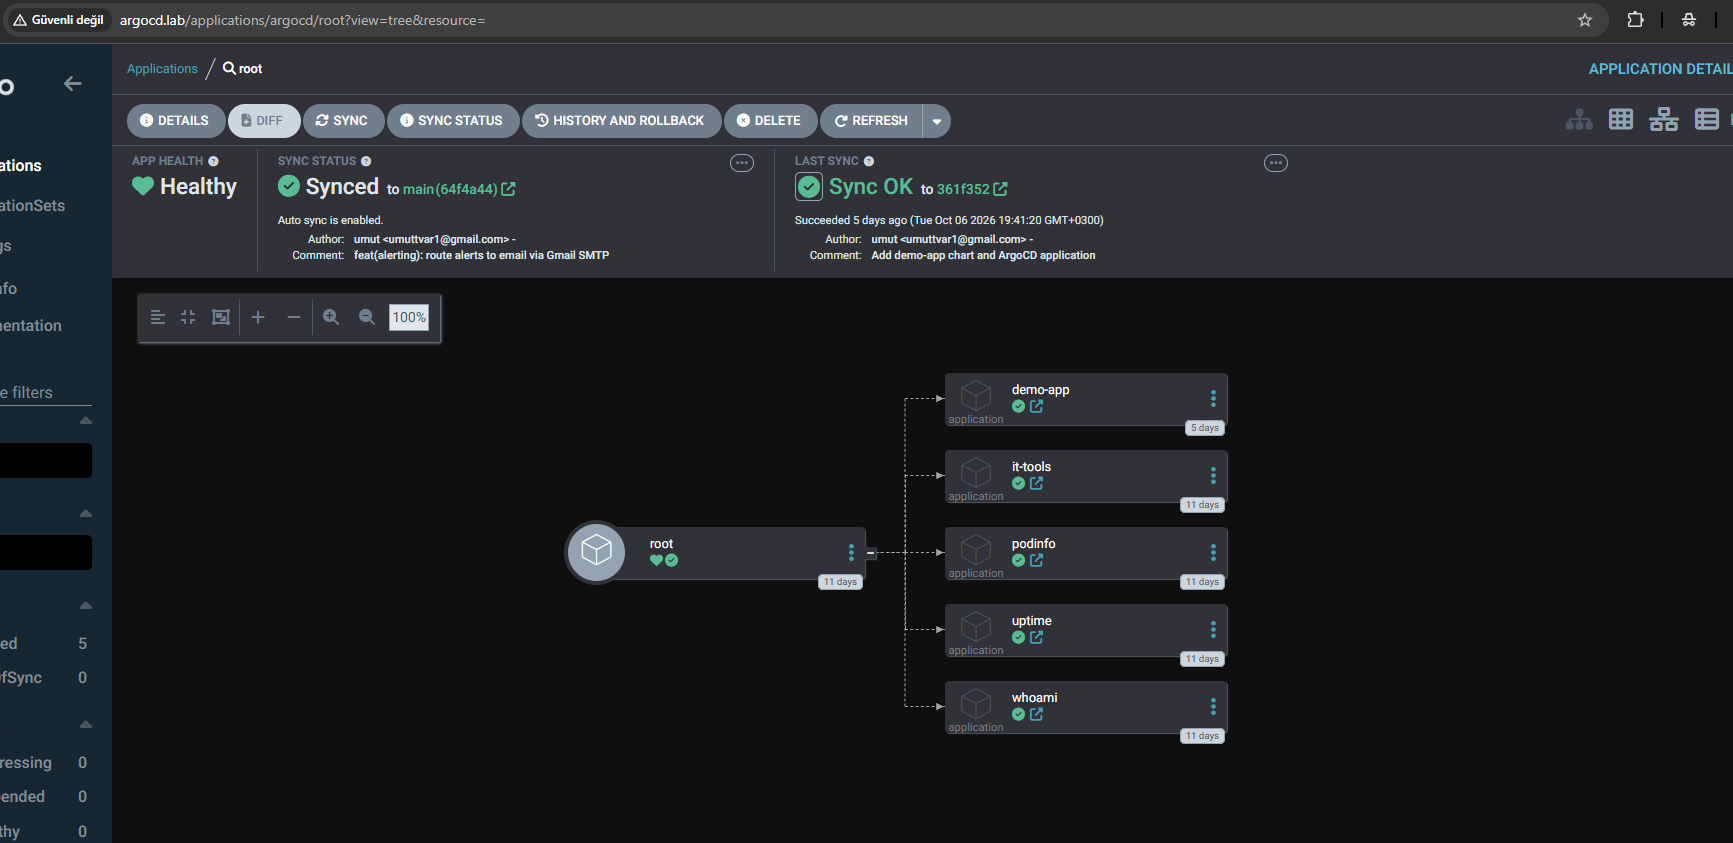
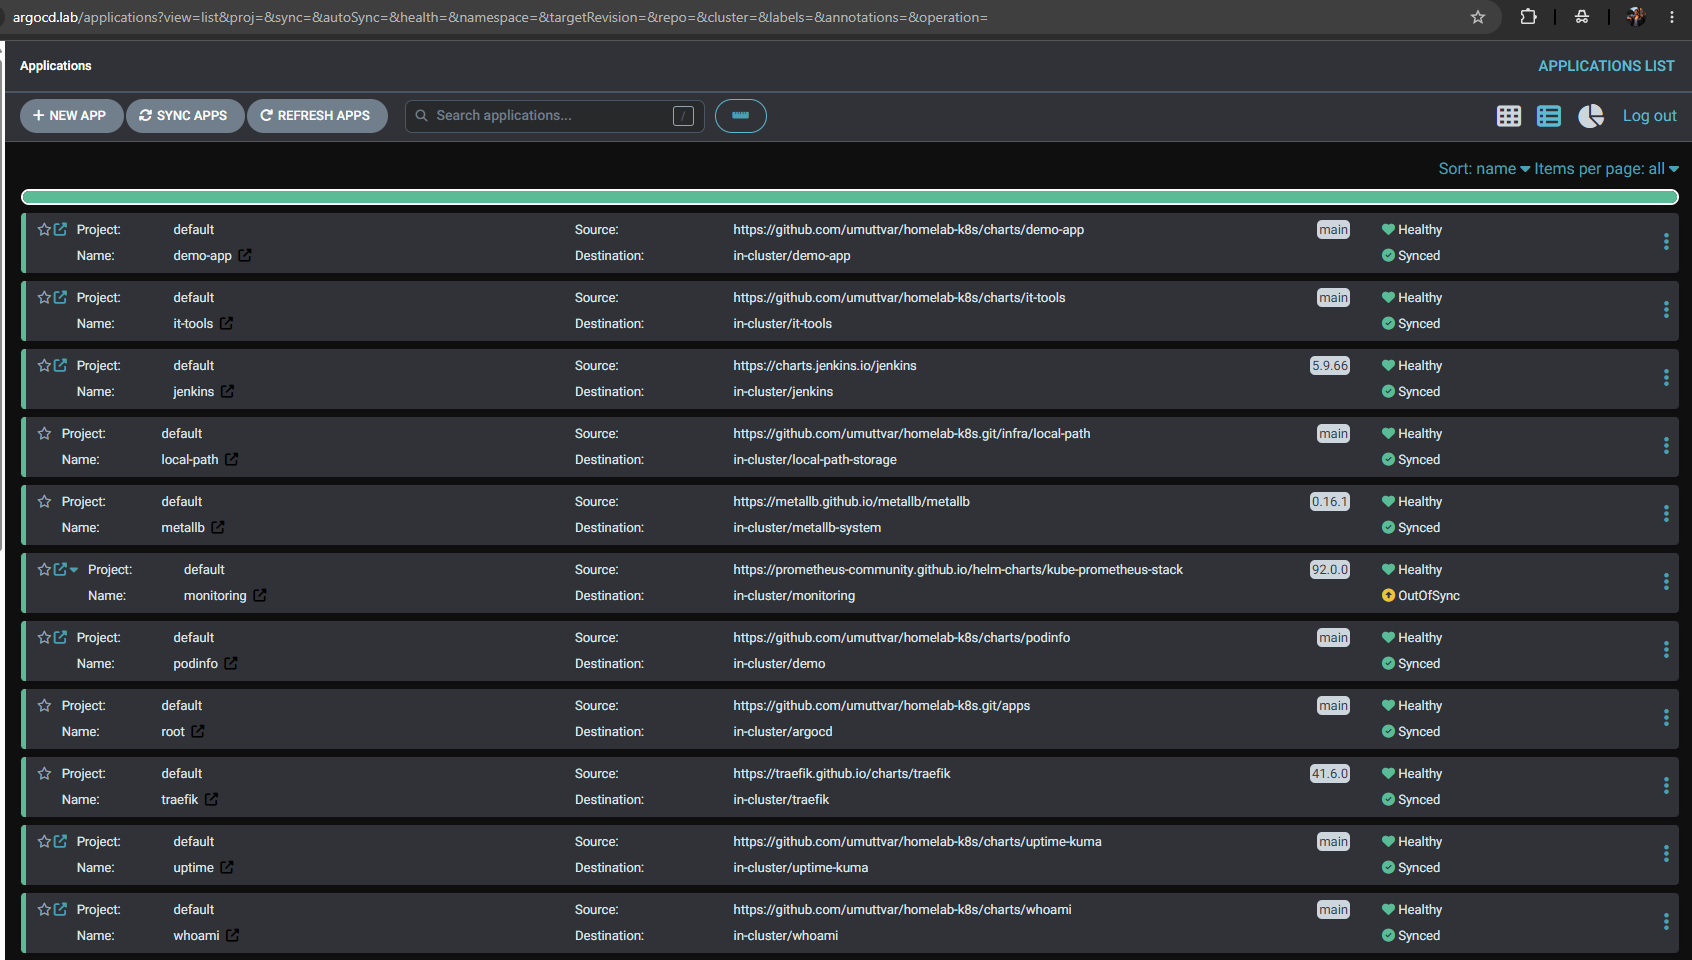
Adding images and readme

diff --git a/README.tr.md b/README.tr.md
@@ -44,10 +44,10 @@ flowchart LR
 
 - Tek şablondan klonlanmış Proxmox VM'lerinde **3 node'lu vanilla Kubernetes** (kubeadm, k3s değil)
 - **Elle adım olmayan CI/CD:** testler → SonarCloud kalite kapısı → Kaniko build → **push'tan önce Trivy taraması** → GHCR → Argo CD
-- **Pull tabanlı GitOps:** Jenkins sadece Git'e yazıyor, cluster'a erişimi yok
+- **Her şey için pull tabanlı GitOps:** uygulamalar *ve* platform (Traefik, MetalLB, Jenkins, izleme, depolama) Argo CD Application'ı. Jenkins sadece Git'e yazıyor, cluster'a erişimi yok
 - **Her şey kod olarak:** uygulamalar, Grafana dashboard'ları ve alarm kuralları bu repoda
 - **Metrikle bulunan sorun:** yanıltıcı bir p95'i (500 ms'lik endpoint için 975 ms) buldum, kodda düzelttim, pipeline'dan geçirdim, ~740 ms olarak doğruladım
-- Kök nedeni ve çözümüyle belgelenmiş **28 gerçek sorun**
+- Kök nedeni ve çözümüyle belgelenmiş **32 gerçek sorun**
 
 ---
 
@@ -97,7 +97,7 @@ flowchart LR
 - [x] Jenkins ile CI: test → SonarCloud → Kaniko → Trivy → GHCR → GitOps commit'i
 - [x] Prometheus + Grafana ile izleme, kod olarak dashboard
 - [x] Alarmlar: PrometheusRule → Alertmanager → e-posta
-- [ ] `infra/`'yı da Argo CD ile yönetmek
+- [x] Platform bileşenleri (`infra/`) de Argo CD ile yönetiliyor, kesintisiz taşındı
 - [ ] cert-manager ile TLS
 - [ ] Sealed Secrets
 - [ ] Her şeyi Terraform (Proxmox provider) + Ansible ile yeniden kurmak
@@ -184,12 +184,17 @@ Tek IP, tek port, birçok uygulama: Traefik her isteği HTTP `Host` başlığın
 ```
 homelab-k8s/
 ├── root-app.yaml               # Argo CD "App of Apps": elle uygulanan tek dosya
-├── apps/                       # Her chart için bir Argo CD Application
-│   ├── demo-app.yaml
-│   ├── podinfo.yaml
-│   ├── whoami.yaml
-│   ├── it-tools.yaml
-│   └── uptime-kuma.yaml
+├── apps/                       # Her bileşen için bir Argo CD Application
+│   ├── demo-app.yaml           # ┐
+│   ├── podinfo.yaml            # │ kendi chart'larım (charts/)
+│   ├── whoami.yaml             # │
+│   ├── it-tools.yaml           # │
+│   ├── uptime-kuma.yaml        # ┘
+│   ├── traefik.yaml            # ┐
+│   ├── metallb.yaml            # │ platform: dış chart (sürümü sabit)
+│   ├── jenkins.yaml            # │ + infra/'daki values
+│   ├── monitoring.yaml         # │
+│   └── local-path.yaml         # ┘
 ├── charts/                     # Kendi yazdığım Helm chart'ları
 │   ├── demo-app/               # CI pipeline'ının build ettiği uygulama
 │   │   ├── values.yaml         # image.tag her build'de Jenkins tarafından güncelleniyor
@@ -206,7 +211,7 @@ homelab-k8s/
 │   ├── whoami/                 # Durumsuz (stateless) uygulama, 3 replika
 │   ├── it-tools/               # Durumsuz SPA, 3 replika
 │   └── uptime-kuma/            # Durumlu (stateful) uygulama: PVC, tek replika, Recreate
-├── infra/                      # Hazır platform chart'larının values dosyaları (Helm ile kuruldu)
+├── infra/                      # Platform bileşenlerinin values/manifestleri (apps/ kullanıyor)
 │   ├── metallb/
 │   ├── traefik/
 │   ├── local-path/
@@ -216,13 +221,13 @@ homelab-k8s/
 └── docs/images/                # README'deki ekran görüntüleri
 ```
 
-> `apps/` ve `charts/` Argo CD tarafından uygulanıyor: push = deploy.
-> `infra/` platformun nasıl kurulduğunun kaydı. `helm upgrade` ile elle uygulanıyor (bkz. [Yol haritası](#yol-haritası)).
+> `apps/`, `charts/` ve `infra/` altındaki her şey Argo CD tarafından uygulanıyor: push = deploy.
+> Tek istisna Argo CD'nin kendisi (`infra/argocd/`). Önyükleme adımı olarak bir kez Helm ile kuruldu.
 
 </details>
 
 <details>
-<summary><b>Nasıl kuruldu: BIOS'tan alarmlara 10 aşama</b></summary>
+<summary><b>Nasıl kuruldu: BIOS'tan tamamen GitOps ile yönetilen platforma 11 aşama</b></summary>
 
 ### Aşama 0: Laptopu hypervisor'a çevirmek
 
@@ -426,6 +431,27 @@ Uçtan uca test edildi: ~%10 hata üretildi → inactive → pending → firing 
 ![Prometheus'ta firing alarm](docs/images/15-alert-firing.png)
 ![Alarm e-postası](docs/images/16-alert-email.png)
 
+### Aşama 10: Platformun kendisini GitOps'a taşımak
+
+Traefik, MetalLB, Jenkins, kube-prometheus-stack ve local-path, Argo CD daha yokken `helm`/`kubectl` ile kurulmuştu.
+Her birini **kesintisiz ve veri kaybı olmadan** bir Argo CD Application'ına taşıdım:
+
+- **Çok kaynaklı Application'lar:** chart dışarıdaki Helm reposundan (sabit sürüm), values bu repodan geliyor
+  (`ref: values` + `$values/infra/<araç>/values.yaml`). MetalLB'de aynı klasörden sadece `config.yaml`'ı uygulayan
+  üçüncü bir kaynak var (`directory.include`).
+- **`helm.releaseName` = orijinal release adı.** Böylece render edilen kaynak adları çalışanlarla eşleşiyor.
+- **Devralma adımları, her seferinde tek araç:** otomatik sync yok → App Diff'i incele (beklenen: sadece
+  `argocd.argoproj.io/tracking-id` annotation'ı) → elle sync → Helm kaydını sil
+  (`owner=helm` Secret'ı, `helm uninstall` **değil**) → otomatik sync'i aç.
+- **kube-prometheus-stack `ServerSideApply=true` istiyor:** CRD'leri `last-applied` annotation'ına sığmayacak kadar büyük.
+- **İki gizli sorun ortaya çıktı** (bkz. *Karşılaştığım sorunlar → GitOps taşıması*): Git'te hiç olmayan, elle
+  `kubectl patch` ile yapılmış bir varsayılan StorageClass ayarı ve her render'da yeniden üretilen bir Grafana admin şifresi.
+
+Sonuç: `helm list -A` sadece `argocd`'yi gösteriyor. Platform ya da uygulama, her değişiklik Git'ten geçiyor.
+Argo CD'nin kendisi tek önyükleme (bootstrap) adımı olarak kalıyor, bilinçli olarak kendini yönetmiyor.
+
+![Platformu ve uygulamaları yöneten Argo CD](docs/images/06-argocd-app-of-apps.png)
+
 </details>
 
 <details>
@@ -444,12 +470,14 @@ Uçtan uca test edildi: ~%10 hata üretildi → inactive → pending → firing 
 - **Durumlu uygulama = 1 replika + `Recreate`:** İki pod aynı SQLite dosyasını asla aynı anda açmamalı. Takas: yeniden başlatmalarda kısa bir kesinti, karşılığında veri bütünlüğü.
 - **Dashboard'lar ve alarmlar uygulamanın yanında** (kendi chart'ında): onunla birlikte deploy ediliyor, versiyonlanıyor ve geri alınıyor.
 - **`helm --set` yerine Git'teki values dosyaları:** `--set` repo ile cluster arasında sessizce sapma (drift) yaratır.
+- **Argo CD tek önyükleme adımı ve kendini yönetmiyor:** Kendini yöneten bir Argo CD güncelleme sırasında kendini bozarsa, onu düzeltecek araç da bozulmuş olur. Production'da onu Terraform kurardı.
+- **Chart'ın üreteceği secret'ları ben veriyorum** (`existingSecret`): Helm'in `lookup`'ıyla üretilen rastgele değerler, Argo CD'nin cluster'a bakmadan yaptığı render'da korunamıyor.
 - **Uptime Kuma, Service'leri cluster DNS'i üzerinden kontrol ediyor** (`<svc>.<ns>.svc.cluster.local`): `*.lab` isimleri sadece benim bilgisayarımın hosts dosyasında var.
 
 </details>
 
 <details>
-<summary><b>Karşılaştığım sorunlar: 28 gerçek olay, kök neden ve çözüm</b></summary>
+<summary><b>Karşılaştığım sorunlar: 32 gerçek olay, kök neden ve çözüm</b></summary>
 
 Gerçek hata ayıklama süreci, yaşandığı sırayla.
 
@@ -479,7 +507,7 @@ Gerçek hata ayıklama süreci, yaşandığı sırayla.
 | Kaniko: Docker Hub'dan `UNAUTHORIZED` | Yetki sorunu değil: `FROM` satırında `python:` image adı eksikti | Hatadaki image adresini tamamen okudum |
 | Trivy HIGH CVE'lerde başarısız | Çalışma zamanı image'ındaki `pip`'in içine gömülü kütüphaneler | Dockerfile'da `pip uninstall -y pip` |
 | `git push` reddedildi | Jenkins bu arada yeni bir tag commit'lemişti | Her push'tan önce `git pull --rebase` (önce commit ya da stash) |
-| Jenkins init container'ı `CrashLoopBackOff` | Önceki denemeden `emptyDir`'de kalan dosyalar | Temiz bir volume için pod'u sildim |
+| Jenkins **her host reboot'undan sonra** `Init:CrashLoopBackOff` / `Unknown`'da takılı | Init container'ındaki `cp`, `emptyDir`'de kalan eklentiler için `overwrite?` sorusunda durdu. emptyDir **pod** yaşadığı sürece yaşıyor ve node reboot'u aynı pod'un container'larını yeniden başlatıyor. Pod'u silmek sorunu sadece gizliyordu | `controller.initializeOnce: true`. `kubectl logs --previous` boş dönünce `/var/log/pods/` altındaki ham log'u okuyarak buldum |
 | Build sonsuza kadar agent bekliyor | Agent pod'u bir ağ kopmasında bağlantıyı kaybetmişti | Build'i iptal ettim, `timeout(20 dk)` ekledim |
 | sonar-scanner'da `java.lang.OutOfMemoryError: Java heap space` | 1 Gi bellek limiti ekleyince JVM varsayılan olarak bunun %25'ini (~256 MB heap) aldı | `SONAR_SCANNER_JAVA_OPTS=-XX:MaxRAMPercentage=75` |
 | `stat image.tar: no such file` | Push'tan "Restart from stage" yaptım: workspace'i boş **yeni** bir agent pod'u açılıyor | Pipeline'ı baştan çalıştırdım. Hızlı hata için Build'in sonuna `ls -lh image.tar` ekledim |
@@ -495,6 +523,15 @@ Gerçek hata ayıklama süreci, yaşandığı sırayla.
 | "Provisioned dashboard cannot be deleted" | Git'ten gelen dashboard, aynı UID'li arayüzdekini sahiplenmişti | Beklenen durum: sahibi artık Git. Testi ConfigMap'i silerek yaptım |
 | Discord bildirimleri: `connection reset by peer` | Discord ülkemde servis sağlayıcı tarafından erişime kapalı. Ayarlar doğruydu | Alıcıyı e-postaya çevirdim. Ders: **Alarm kanalı da bir bağımlılık** |
 | Yük testleri SSH oturumumu dondurdu | 20 paralel curl tek bir laptop'u doyurdu | Aynı hata *oranını* hafif, sıralı bir döngüyle ürettim. Uzun komutları Proxmox shell'inden çalıştırdım |
+
+### GitOps taşıması
+
+| Belirti | Kök neden | Çözüm |
+|---|---|---|
+| Cluster'da zaten varsayılan olmasına rağmen local-path'in StorageClass'ında diff | Varsayılan sınıf annotation'ı elle `kubectl patch` ile eklenmiş, Git'e hiç girmemişti (**drift**). Sıfırdan kurulumda tüm PVC'ler `Pending`'de kalırdı | Annotation'ı Git'teki manifeste ekledim |
+| Grafana admin Secret'ı her Argo CD yenilemesinde farklı | Chart rastgele şifresini Helm'in `lookup`'ıyla sabit tutuyor, Argo CD ise cluster'a bakmadan render ettiği için bunu çalıştıramıyor | Mevcut şifreyi kendi Secret'ıma kopyaladım, `grafana.admin.existingSecret`. Önce prune'suz sync, girişi doğruladıktan sonra eski Secret'ı prune ettim |
+| Yeni Application Argo CD'de hiç görünmedi | `apps/local-path.yaml` **boş** (0 byte) commit'lenmişti: editör kaydetmemişti | `git show --stat HEAD` ile yakaladım. Artık her push'tan önce stat'a bakıyorum |
+| StorageClass diff'inde tuhaf, tekrarlanan bir blok | `annotiations:` yazım hatası | `kubectl apply --dry-run=server` bilinmeyen alanları bildiriyor, `--dry-run=client` bildirmiyor |
 
 En önemli ders: **Tehlikeli hatalar sessiz olanlar.** Label'daki bir yazım hatası, eksik bir port adı,
 hiç var olmayan bir ServiceMonitor ya da doğru label'ı taşımayan bir kural hiçbir hata mesajı üretmiyor.
@@ -514,7 +551,7 @@ ve `helm template` çıktısını okumak bu hataları yakalıyor.
 | Image'lar imzalı değil | cosign ile imzalama + admission politikası |
 | Tek control-plane node'u | 3 control-plane node'u (HA etcd) |
 | Yedek yok | Velero |
-| `infra/` elle `helm upgrade` ile uygulanıyor | Platform bileşenleri de Argo CD ile yönetilir |
+| Argo CD elle kuruldu (önyükleme) | Argo CD'yi cluster'la birlikte Terraform kurar |
 | VM'ler elle oluşturuldu | Terraform + Ansible |
 
 </details>
@@ -523,31 +560,24 @@ ve `helm template` çıktısını okumak bu hataları yakalıyor.
 <summary><b>Tekrar kurmak için</b></summary>
 
 ```bash
-# Platform bileşenleri
-helm repo add metallb https://metallb.github.io/metallb
-helm repo add traefik https://traefik.github.io/charts
+# 1) Önyükleme: elle kurulan tek şey Argo CD
 helm repo add argo https://argoproj.github.io/argo-helm
-helm repo add jenkins https://charts.jenkins.io
-helm repo add prometheus-community https://prometheus-community.github.io/helm-charts
-helm repo update
+helm upgrade --install argocd argo/argo-cd -n argocd --create-namespace --version 10.9.4 -f infra/argocd/values.yaml
 
-helm upgrade --install metallb metallb/metallb -n metallb-system --create-namespace --version 0.16.1 -f infra/metallb/values.yaml
-kubectl apply -f infra/metallb/config.yaml
-helm upgrade --install traefik traefik/traefik -n traefik --create-namespace --version 41.6.0 -f infra/traefik/values.yaml
-kubectl apply -f infra/local-path/local-path-storage.yaml
-
-# Secret'lar (asla Git'e girmez)
+# 2) Secret'lar (asla Git'e girmez)
 kubectl create namespace monitoring
 kubectl create secret generic gmail-smtp -n monitoring --from-literal=password='<gmail uygulama şifresi>'
+kubectl create secret generic grafana-admin -n monitoring \
+  --from-literal=admin-user=admin --from-literal=admin-password='<bir şifre seç>'
+kubectl create namespace jenkins
+kubectl create secret docker-registry ghcr-creds -n jenkins \
+  --docker-server=ghcr.io --docker-username='<github kullanıcı adı>' --docker-password='<write:packages yetkili token>'
 
-helm upgrade --install monitoring prometheus-community/kube-prometheus-stack -n monitoring --version 92.0.0 -f infra/monitoring/values.yaml
-helm upgrade --install argocd argo/argo-cd -n argocd --create-namespace --version 10.9.4 -f infra/argocd/values.yaml
-helm upgrade --install jenkins jenkins/jenkins -n jenkins --create-namespace --version 5.9.66 -f infra/jenkins/values.yaml
-
-# Uygulamalar: tek komut, gerisini Argo CD yapıyor
+# 3) Geri kalan her şey, platform ve uygulamalar: tek komut
 kubectl apply -f root-app.yaml
 ```
 
-Son olarak hosts dosyanda `*.lab` isimlerini (`demo`, `podinfo`, `whoami`, `tool`, `uptime`, `argocd`, `jenkins`, `grafana`, `prometheus`) `192.168.0.250`'ye yönlendir.
+Sonra Jenkins'e `sonarcloud-token` ve `github-gitops` kimlik bilgilerini ekle ve hosts dosyanda `*.lab` isimlerini
+(`demo`, `podinfo`, `whoami`, `tool`, `uptime`, `argocd`, `jenkins`, `grafana`, `prometheus`) `192.168.0.250`'ye yönlendir.
 
 </details>
